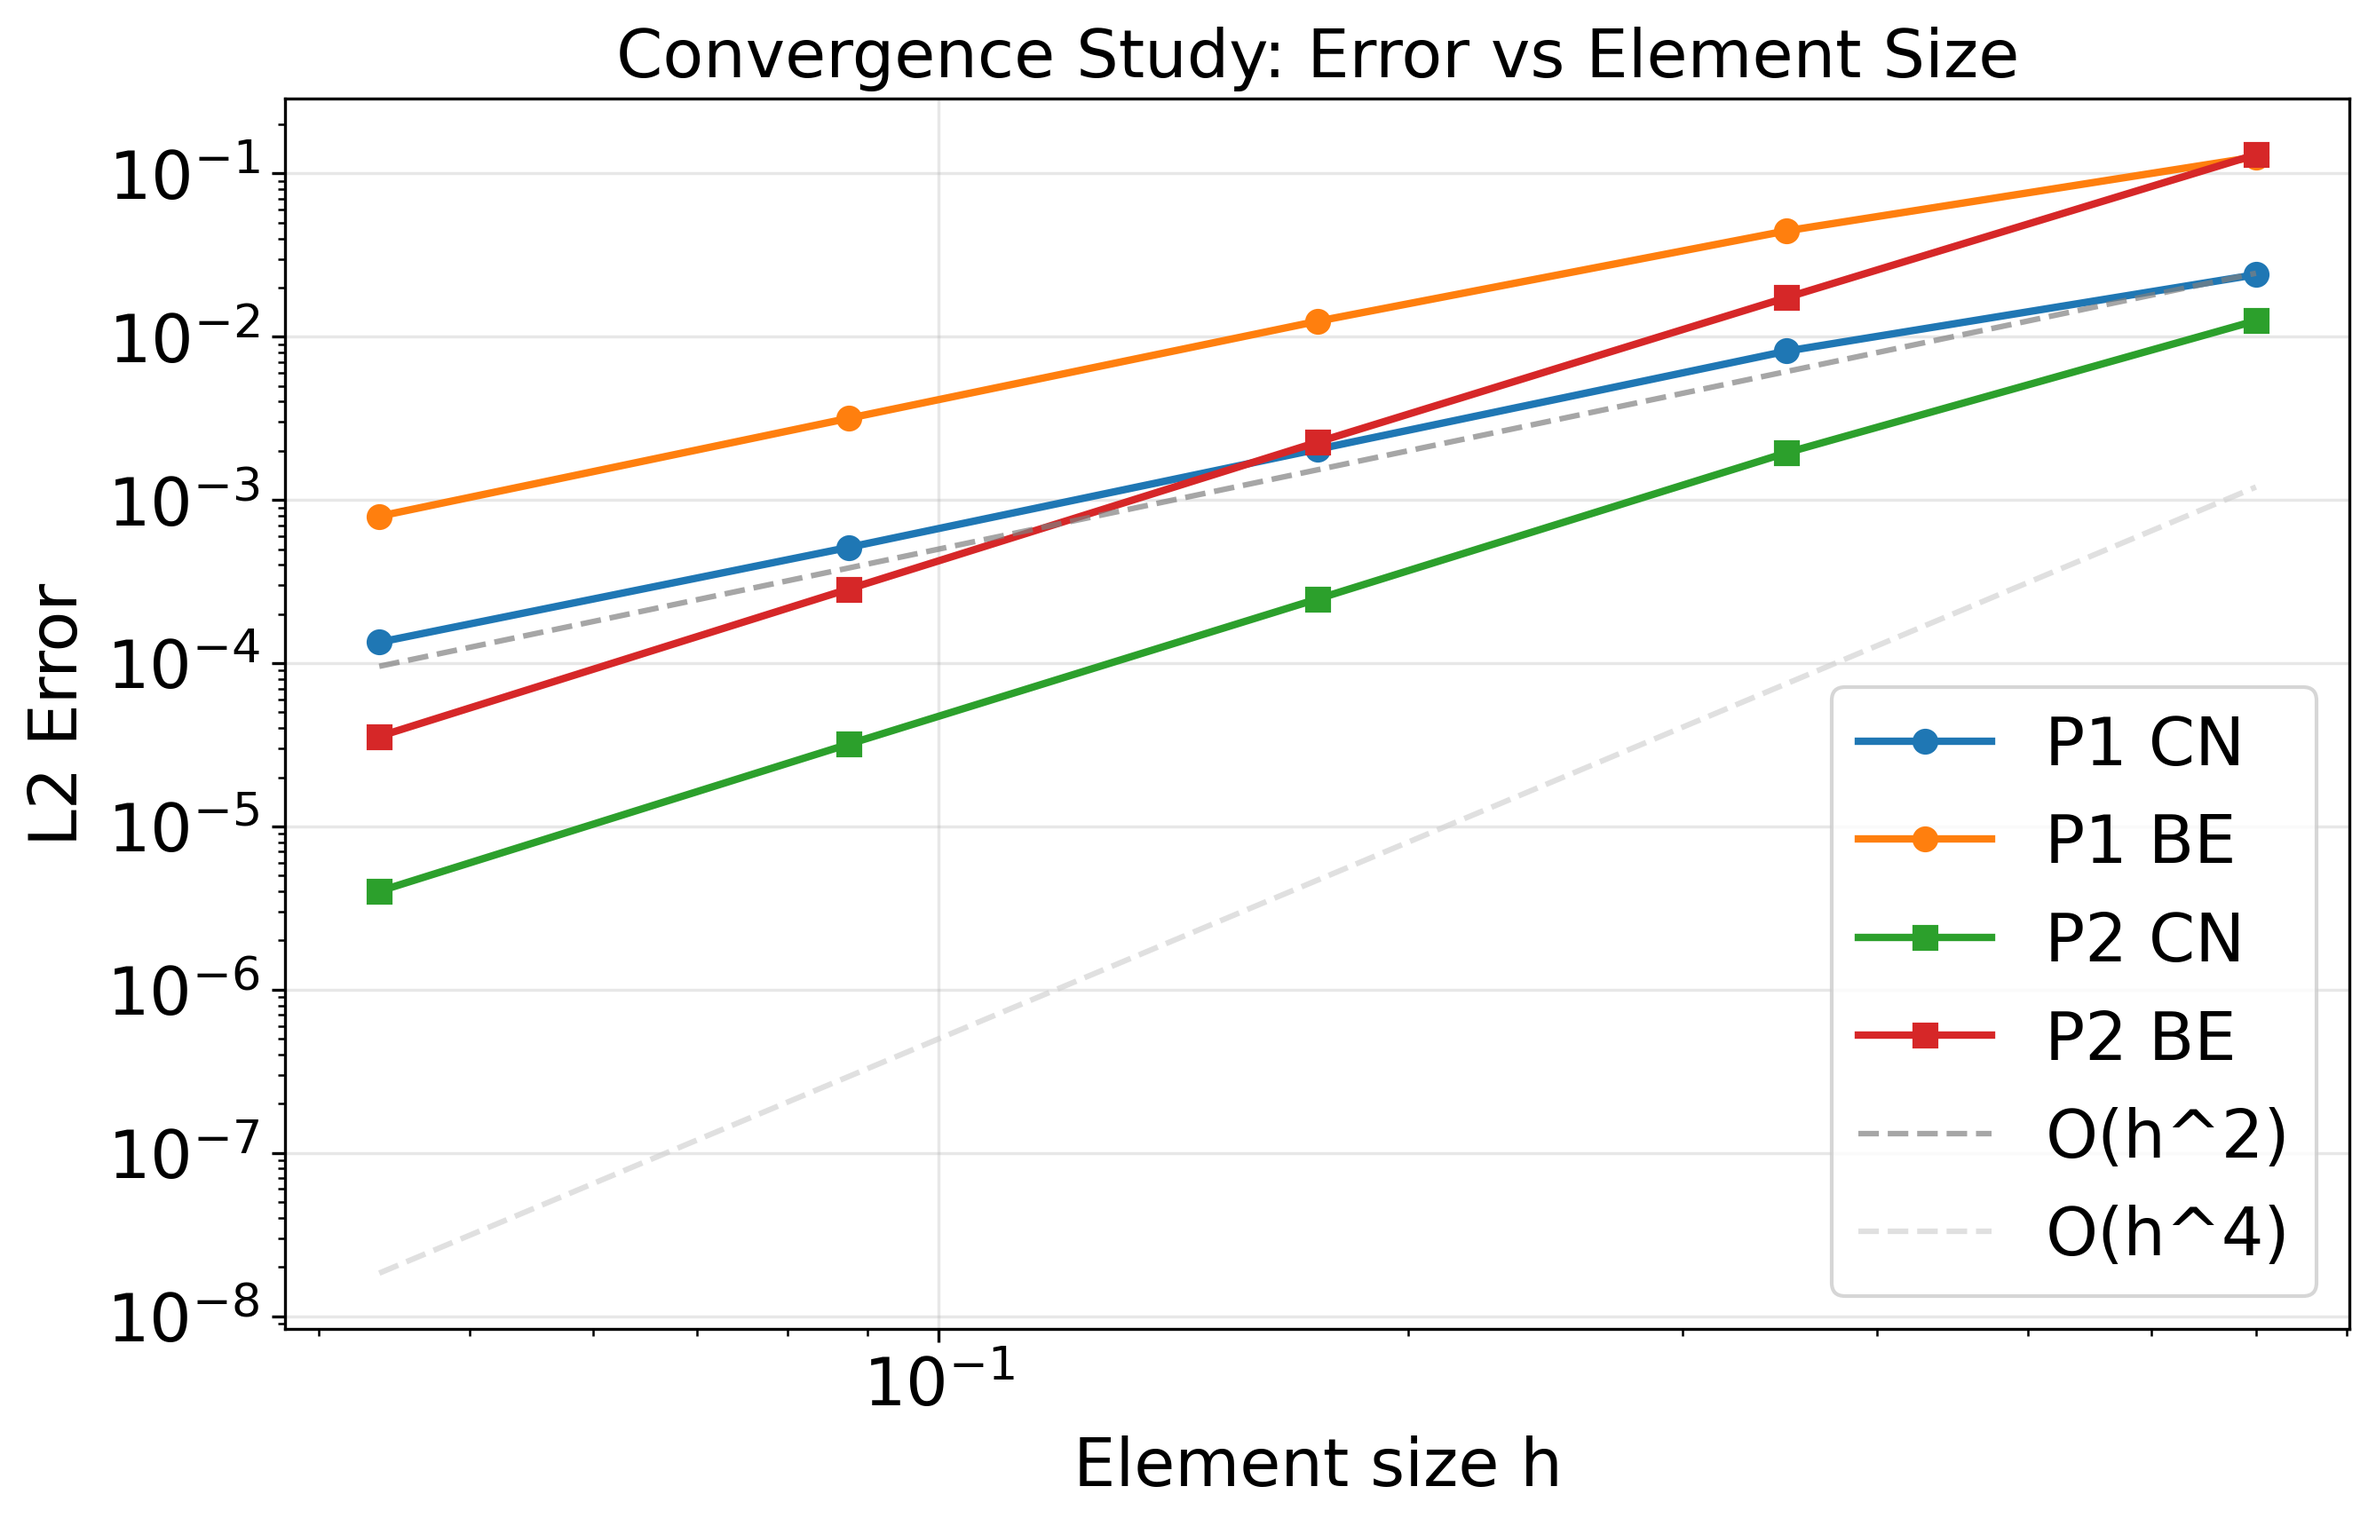
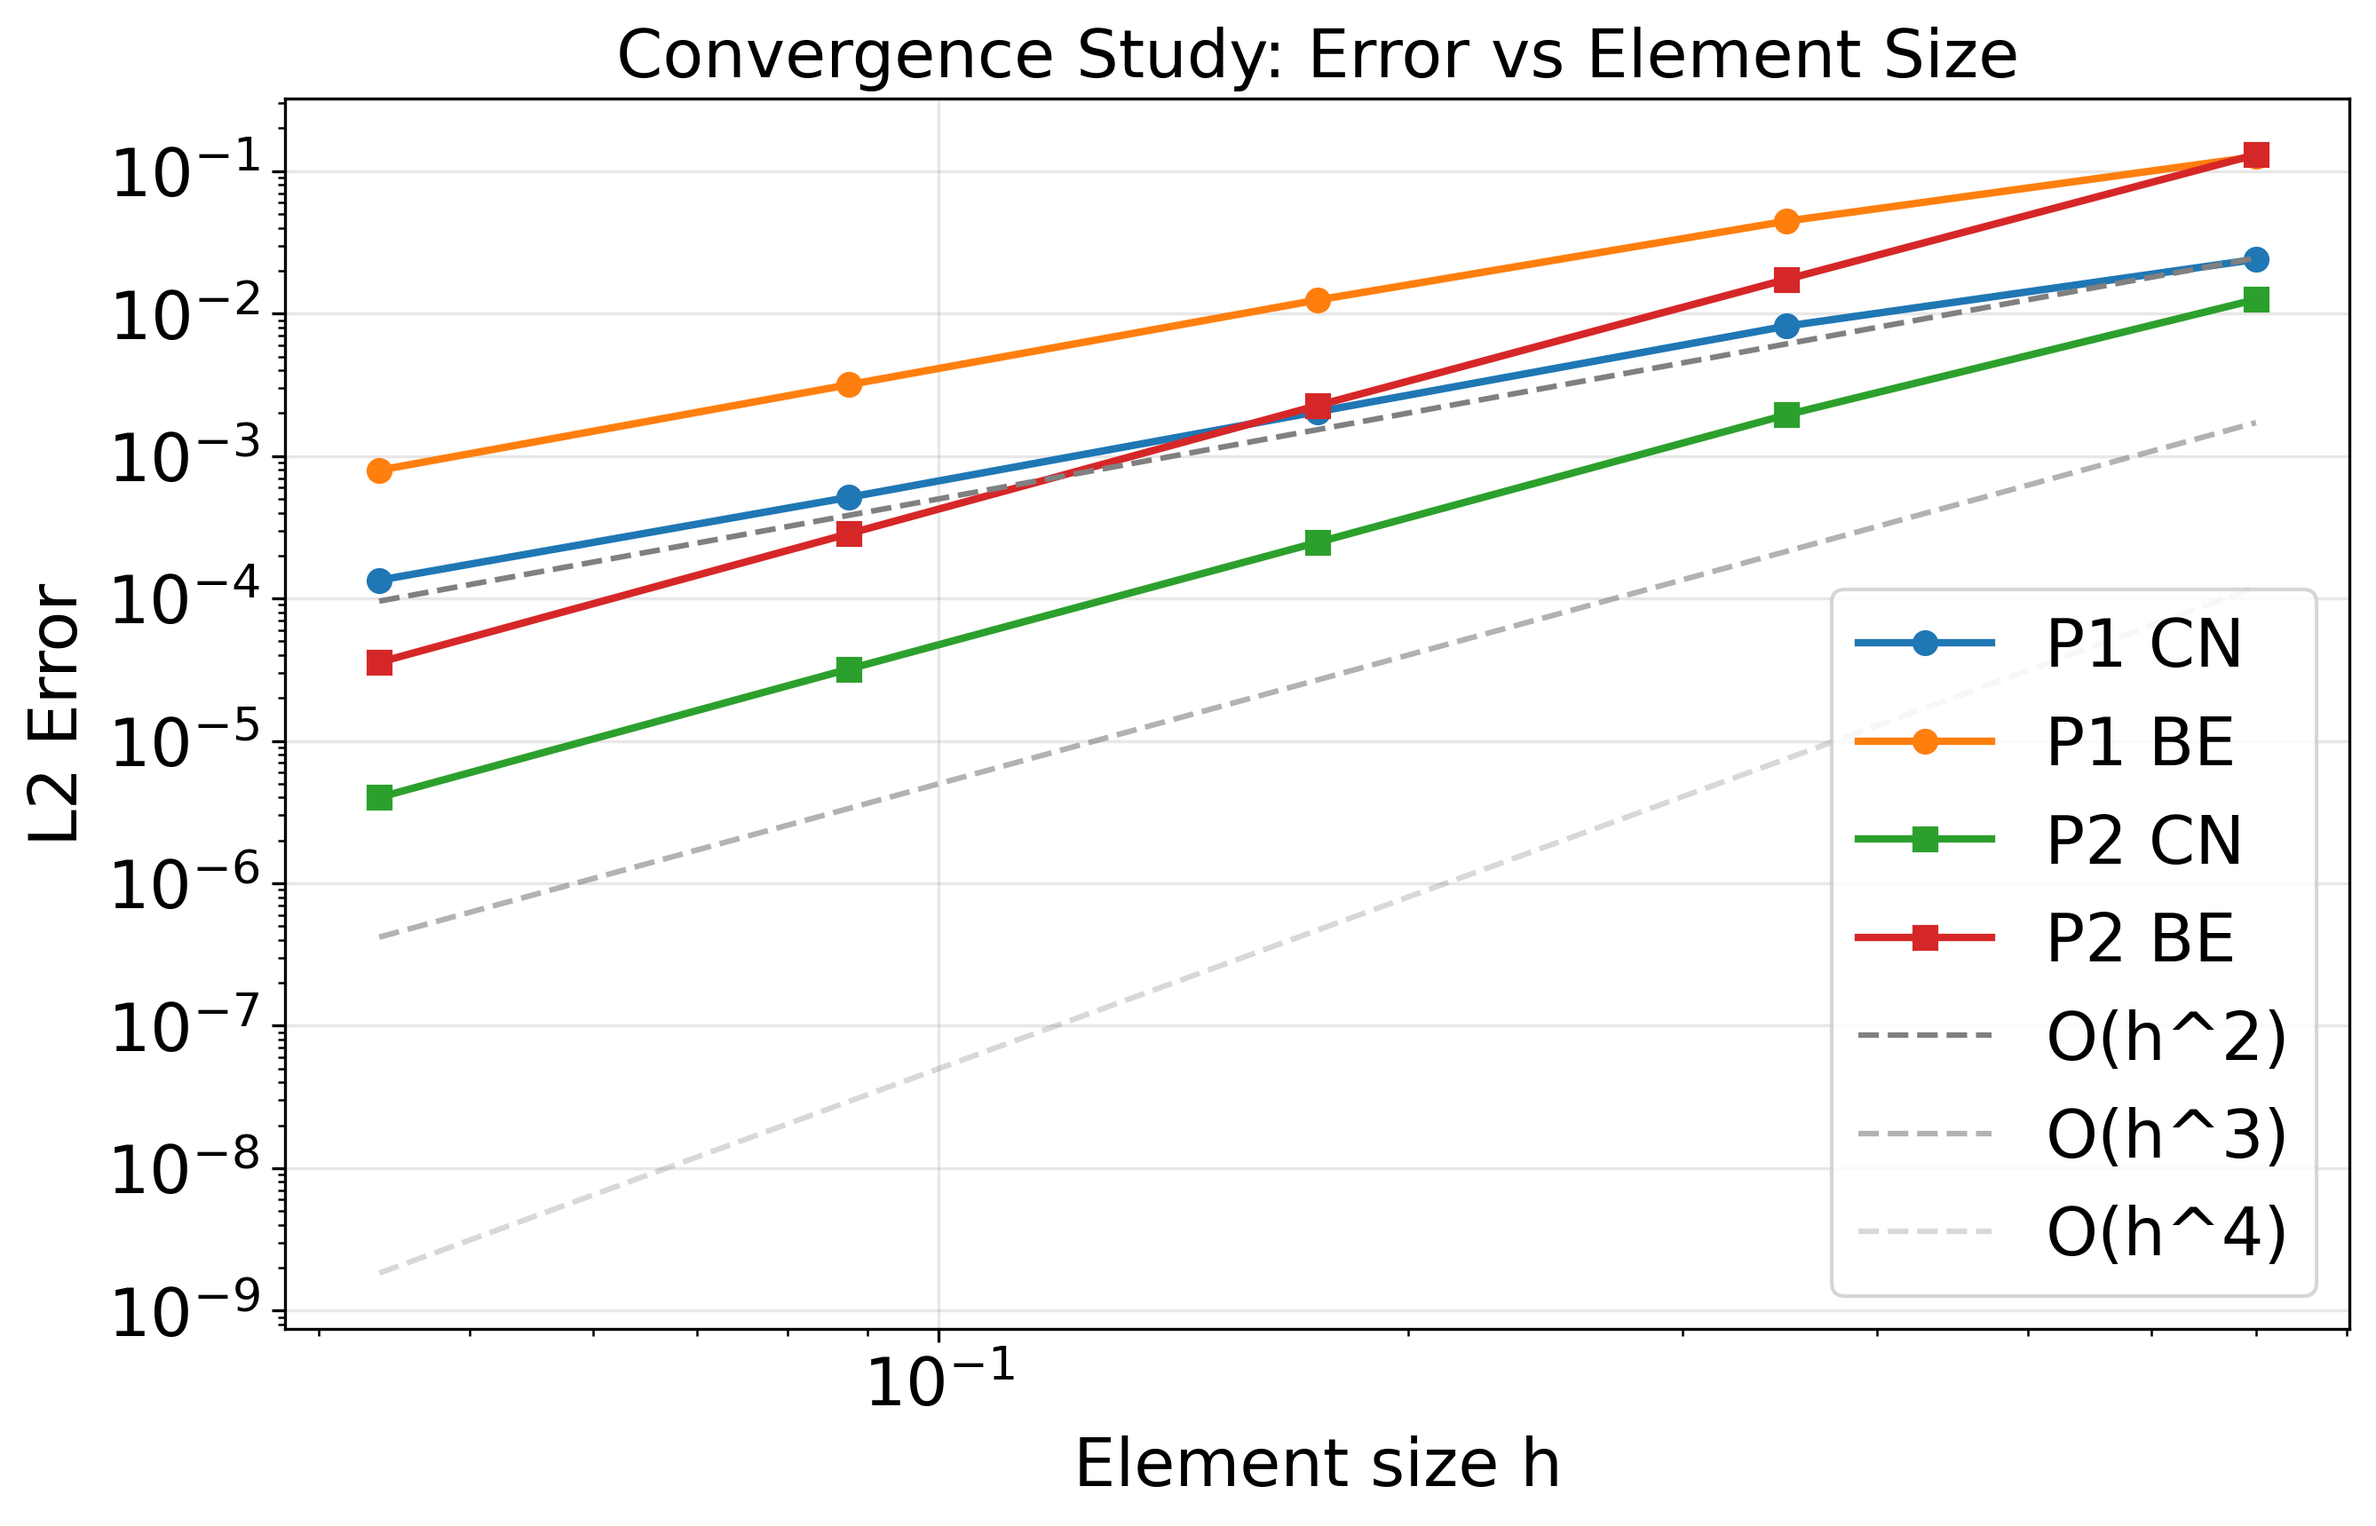
Improved readability of images

diff --git a/code/main.py b/code/main.py
@@ -10,8 +10,8 @@ from fem_solver import FEMSolver
 from black_scholes_pde import *
 
 # Flags to control which parts of the code to run
-COMPUTE_EXAMPLE_1 = True
-COMPUTE_EXAMPLE_2 = True
+COMPUTE_EXAMPLE_1 = False
+COMPUTE_EXAMPLE_2 = False
 COMPUTE_ANALYTICAL = True
 COMPUTE_CONVERGENCE_STUDY = True
 
@@ -285,8 +285,9 @@ def plot_convergence_errors(h_errors_dict, title="Convergence Study: Error vs El
     # Reference lines
     all_h = np.concatenate([np.array(hv) for hv, _ in h_errors_dict.values()])
     h_ref = np.sort(np.unique(all_h))
-    plt.loglog(h_ref, 0.05 * h_ref**2, '--', label='O(h^2)', alpha=0.7, color='gray')
-    plt.loglog(h_ref, 0.005 * h_ref**4, '--', label='O(h^4)', alpha=0.7, color='lightgray')
+    plt.loglog(h_ref, 0.05 * h_ref**2, '--', label='O(h^2)', alpha=1, color='gray')
+    plt.loglog(h_ref, 0.005 * h_ref**3, '--', label='O(h^3)', alpha=0.6, color='gray')
+    plt.loglog(h_ref, 0.0005 * h_ref**4, '--', label='O(h^4)', alpha=0.3, color='gray')
     plt.xlabel('Element size h')
     plt.ylabel('L2 Error')
     plt.title(title)
@@ -433,7 +434,7 @@ if __name__ == "__main__":
         pde = BlackScholesTrue(S_min, S_max, r, sigma, T, K)
 
         # Solve the PDE using FEM and compare with analytical solution
-        errors = test_fem_vs_analytical(pde, numb_elements=600, numb_timesteps=10)
+        errors = test_fem_vs_analytical(pde, numb_elements=1200, numb_timesteps=20)
         
         # Run convergence study to see the error vs. h curve
         if COMPUTE_CONVERGENCE_STUDY:
